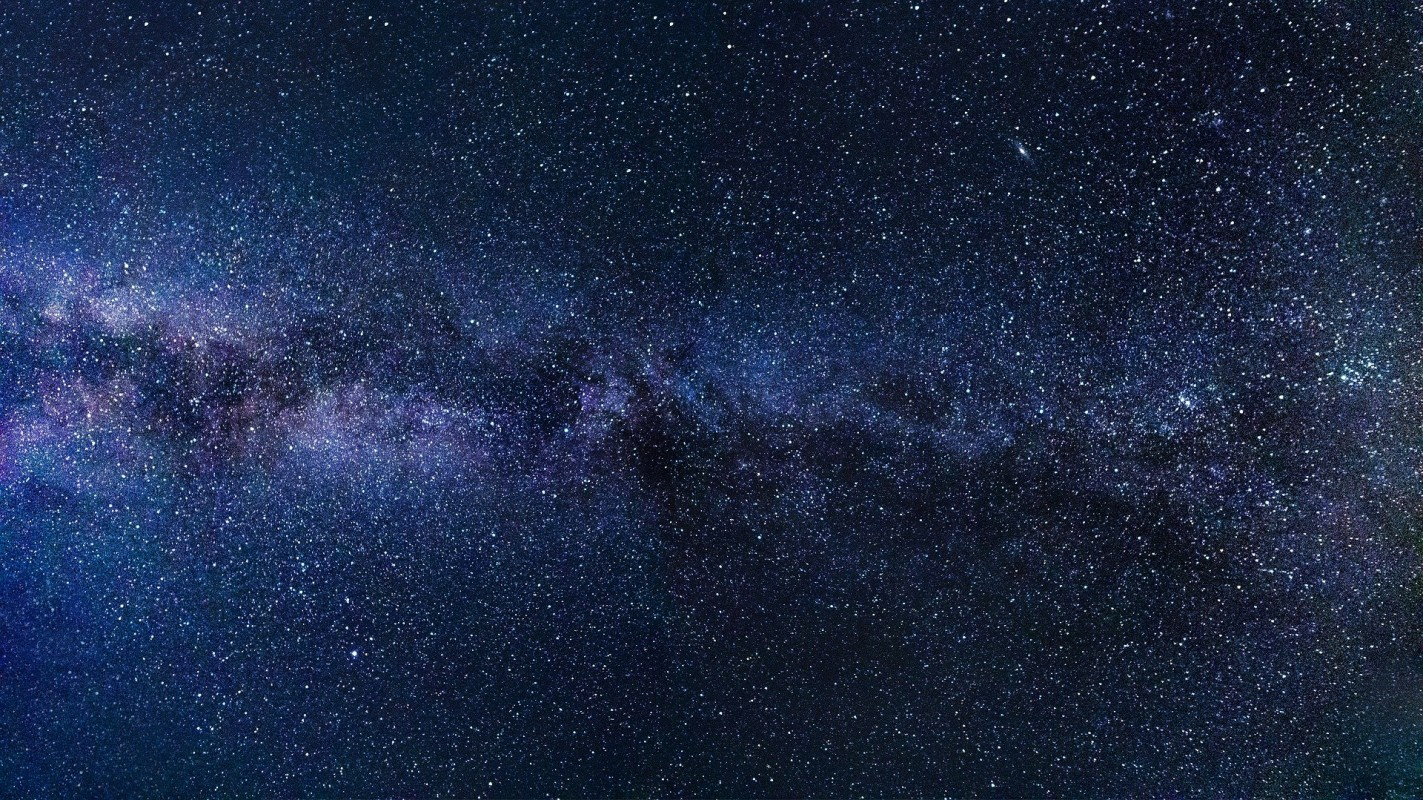
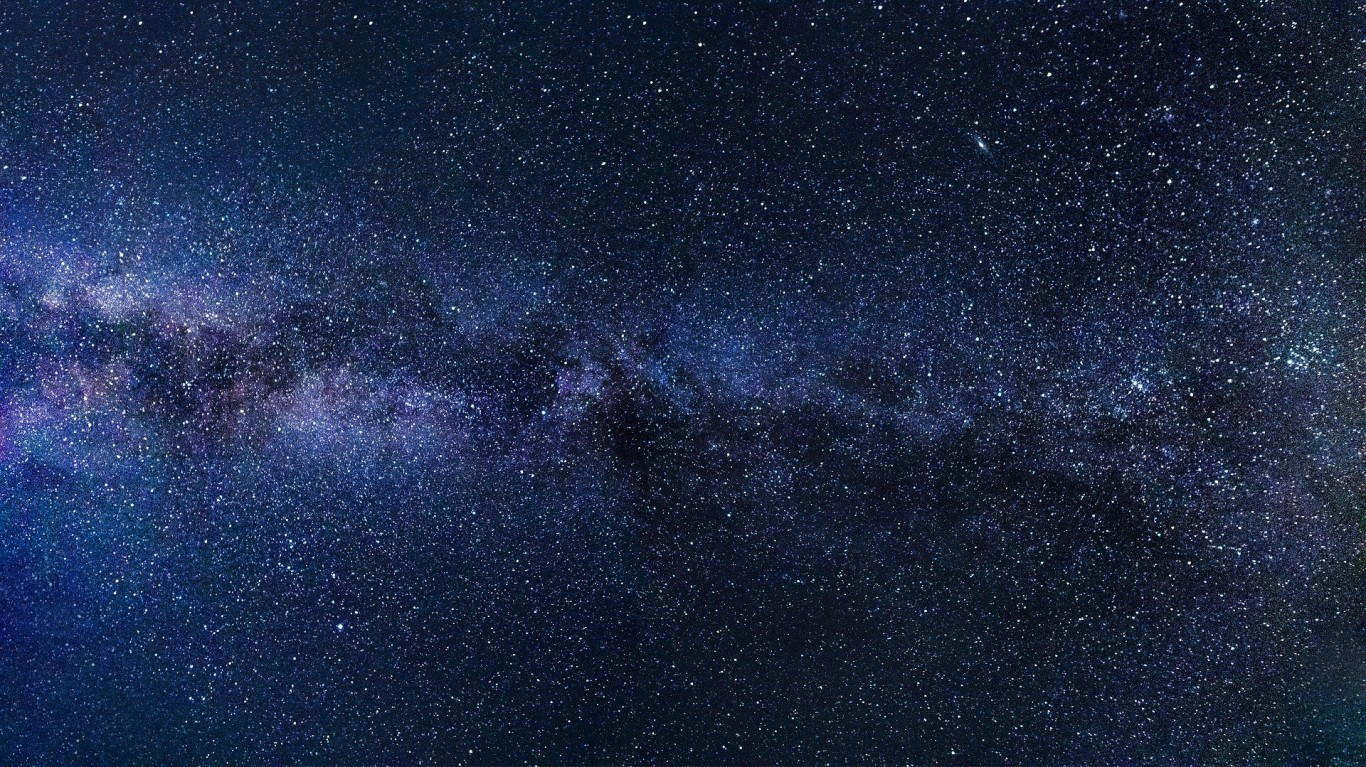
redoing cropping

Changed region(s): [[0.3075, 0.5098, 0.3382, 0.5398], [0.0, 0.5098, 0.0307, 0.5398]]

diff --git a/classes/image.php b/classes/image.php
@@ -25,11 +25,79 @@ class Image
 	}
 		}
 
-		//resized the image
+		//adjust incase max width and heioght are different
+		if($max_width != $max_height)
+		{
+			if($max_height > $max_width){
+
+		if($max_height > $new_height){
+
+		$adjustment = ($max_height / $new_height);
+
+		} else {
+			$adjustment = ($new_height / $max_height);
+		}
+		$new_width = $new_width * $adjustment;
+		$new_height = $new_height* $adjustment;
+		} else {
+			
+		if($max_width > $new_width){
+
+		$adjustment = ($max_width / $new_width);
+
+		} else {
+			$adjustment = ($new_width / $max_width);
+		}
+		$new_width = $new_width * $adjustment;
+		$new_height = $new_height* $adjustment;
+		}
+	}
+
 		$new_image = imagecreatetruecolor($new_width,$new_height);
 		imagecopyresampled($new_image,$original_image,0,0,0,0, $new_width, $new_height, $original_width, $original_height);
 		
+		imagedestroy($original_image);
+
+
+		if($max_width != $max_height)
+		{  
+			if($max_width > $max_height){
+				$diff = ($new_height - $max_height);
+				if($diff < 0 ) {
+					$diff = $diff * -1;
+				}
+				$y = round($diff / 2);
+				$x = 0;
+	
+	
+			} else {
+				$diff = ($new_width - $max_height);
+				if($diff < 0 ) {
+				$diff = $diff * -1;
+			}
+
+				$x = round($diff / 2);
+				$y = 0;
+			}
+		} else {
+		if($new_height > $new_width){
+			$diff = ($new_height - $new_width);
+			$y = round($diff / 2);
+			$x = 0;
+
+
+		} else {
+			$diff = ($new_width - $new_height);
+			$x = round($diff / 2);
+			$y = 0;
+		}
+	}
+
+		$new_cropped_image = imagecreatetruecolor($max_width, $max_height);
+		imagecopyresampled($new_cropped_image,$new_image,0,0,$x,$y,$max_width,$max_height,$max_width,$max_height);
+		imagedestroy($new_image);
 		imagejpeg($new_image,$cropped_file_name, 90);
+		imagedestroy($new_cropped_image);
 	}
 
 }

diff --git a/change_profile_image.php b/change_profile_image.php
@@ -14,7 +14,7 @@ $user_data = $login->check_login($_SESSION['crescendo_userid']);
 if($_SERVER['REQUEST_METHOD'] == "POST"){ 
 
 if(isset($_FILES['file']['name']) && $_FILES['file']['name'] != "")
-{
+{ //die;
     if($_FILES['file']['type'] == "image/jpeg") 
     {
         $allowed_size = (1024 * 1024) * 3;
